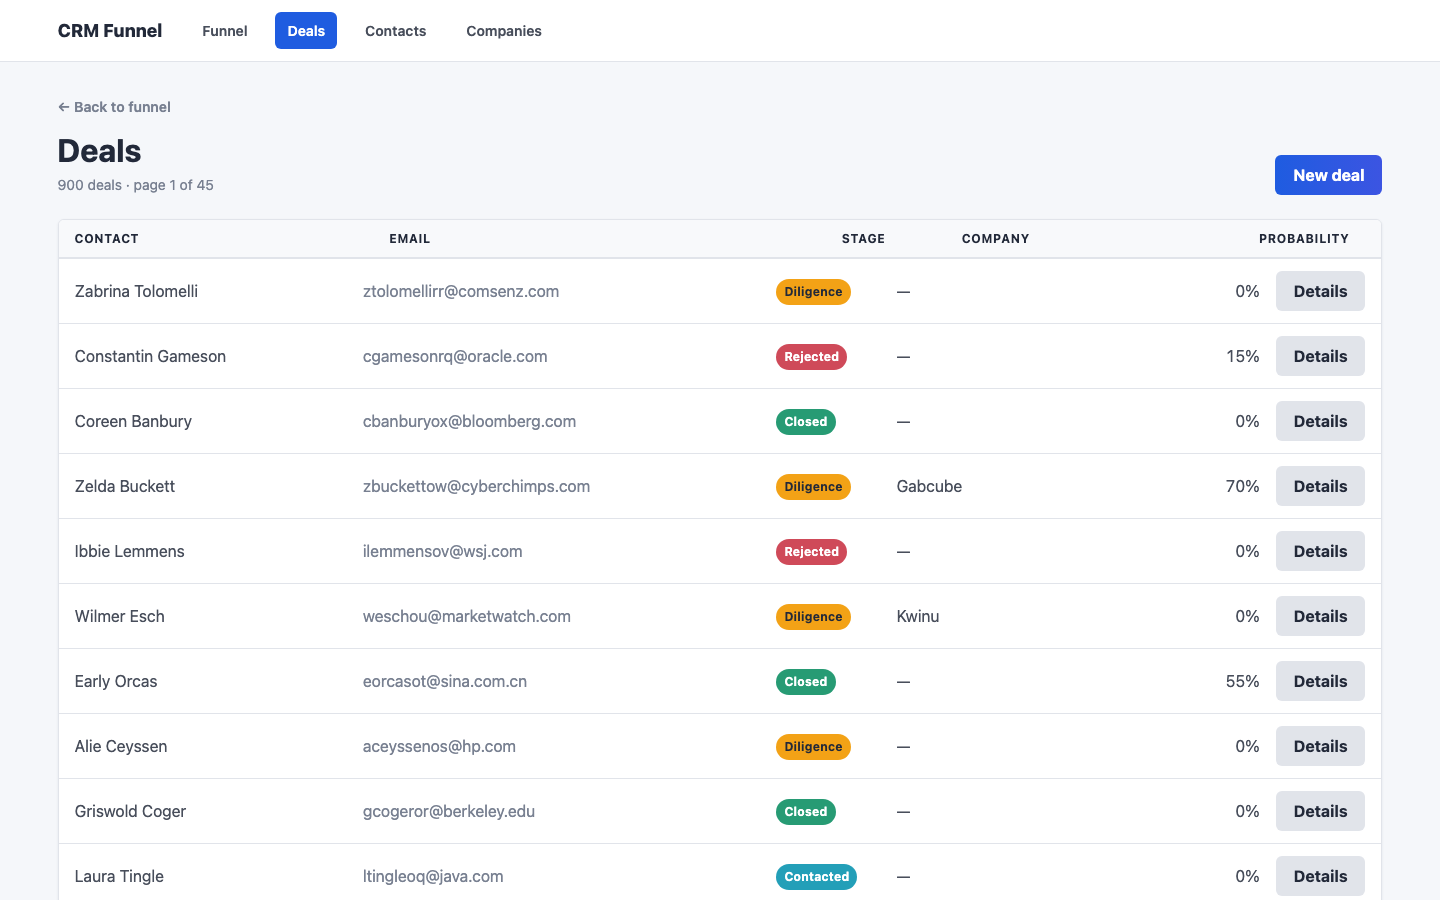
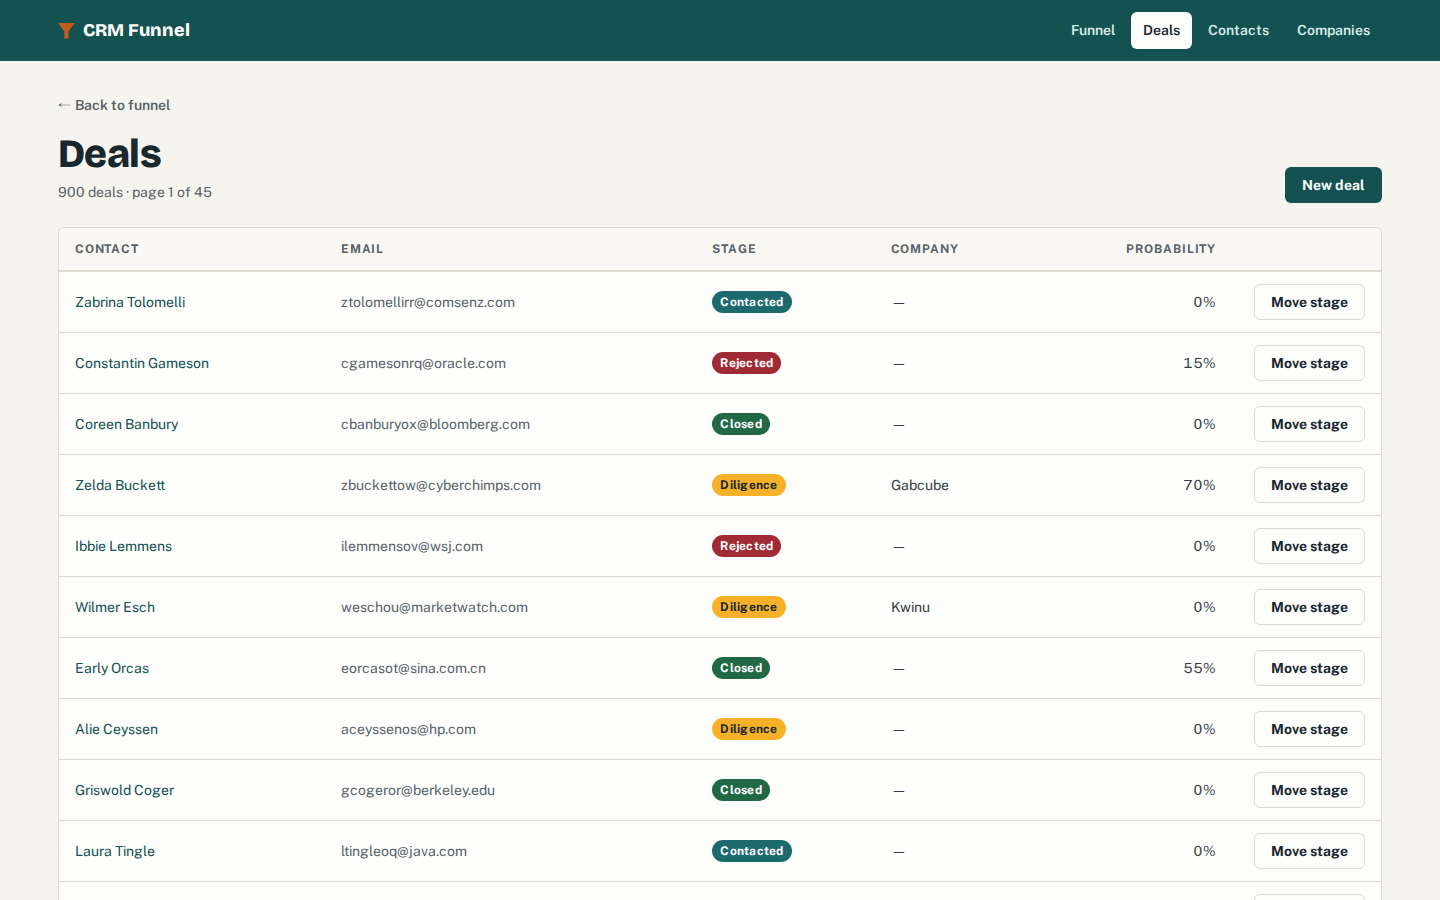
Document the Compose path, mobile layout and re-measured query counts
The README no longer warns that the image was never built: compose up
now builds, seeds and passes its healthcheck. Screenshots are retaken
on the new UI at 1440x900 and 390x844 from a freshly imported database,
the query table is re-measured (adding the 5-query no-op re-import),
the /up response is shown verbatim, and an MIT LICENSE is added.

diff --git a/README.md b/README.md
@@ -4,10 +4,13 @@ A Rails app that turns a flat contact export into a sales pipeline. A deal has n
 stage column: its position is the stage of its newest `deal_histories` row, so the
 funnel is a view over what actually happened rather than a mutable status field.
 
-It ships with the export it was built around — `crm_data.csv`, 1,000 rows, one stage
-per row, 900 distinct e-mail addresses.
+It ships with the export it was built around — `crm_data.csv`, 1,000 rows of
+generated demo contacts, one stage per row, 900 distinct e-mail addresses.
 
-![The pipeline funnel](docs/screenshots/funnel-dashboard.png)
+Built on Ruby 3.4 and Rails 8.1 with PostgreSQL, server-rendered ERB, Turbo and a
+little Stimulus, Kaminari for paging and hand-written SCSS compiled by Dart Sass.
+
+![The pipeline funnel on a freshly imported database](docs/screenshots/funnel-dashboard.png)
 
 Every deal is counted once, in one stage, and the five stage counts sum to the deal
 count. The tiles are derived: open is the three non-terminal stages, *expected to
@@ -54,16 +57,16 @@ means a history row inserted out of order still reports correctly.
 
 ![Stage history for one deal](docs/screenshots/deal-stage-history.png)
 
-That deal was walked Lead → Contacted → Diligence through the form while the
-screenshots were being taken, and a second one was moved Contacted → Diligence,
-which is why the dashboard above shows 154 deals in Diligence where a freshly
-imported database has 152.
+That deal was walked Lead → Contacted → Diligence through the *Move stage* form
+while the screenshots were taken. The dashboard above was captured before that, on
+a freshly imported database, so its 152 deals in Diligence are what the import
+produces.
 
 ## Importing the export
 
 ```
 $ bin/rails db:seed
-Imported /path/to/crm-funnel/crm_data.csv
+Imported /app/crm_data.csv
   read 1000 rows -> 900 new contacts, 162 new companies, 900 new deals,
   900 stage entries (100 duplicate rows merged, 21 probabilities clamped, 0 rows rejected)
 ```
@@ -157,12 +160,13 @@ into Lead, and an empty pipeline returns zeroes rather than dividing by zero.
 
 ## Query budget
 
-Measured here by counting `sql.active_record` notifications on the bundled 1,000-row
-dataset:
+Measured by counting `sql.active_record` notifications (schema and transaction
+statements excluded) against an empty database and the bundled 1,000-row export:
 
 | | queries |
 | --- | --- |
 | Import all 1,000 rows | 8 |
+| Re-run the same import (writes nothing) | 5 |
 | Deals index, loading one page of 20 | 3 |
 | Whole funnel dashboard report | 1 |
 
@@ -184,28 +188,62 @@ dashboard's activity list is capped at 8 rows, so no page grows with the table.
 Each row's badge is the stage the LATERAL join returned — 900 deals over 45 pages,
 still three queries to load them.
 
-## Running it locally
+## The interface
 
-Ruby 3.1.3 and a PostgreSQL server are the only prerequisites.
+Every list is a real `<table>` with scoped column headers, so a screen reader can
+announce *Stage: Diligence* rather than a bare word. Below 48rem the same markup
+turns each row into a labelled card instead of a table that scrolls sideways, and
+the funnel bars move their averages under the bar.
+
+<p>
+  <img src="docs/screenshots/funnel-dashboard-mobile.png" alt="Funnel dashboard at phone width" width="260">
+  <img src="docs/screenshots/deals-index-mobile.png" alt="Deals list at phone width, one card per deal" width="260">
+</p>
+
+Other details: a skip link, `aria-current` on the active navigation item, row
+actions labelled with the contact they act on, notices announced as `role=status`
+and errors as `role=alert`, and flash messages that stay put under
+`prefers-reduced-motion` instead of fading. The stage colours keep white text at
+4.5:1 or better (Diligence uses dark text on amber).
+
+![Contacts index](docs/screenshots/contacts-index.png)
+
+## Running it
+
+The quickest path is Docker Compose, which builds the production image, starts
+PostgreSQL 16, loads the schema and imports `crm_data.csv` on first boot:
+
+```bash
+docker compose up --build
+# app:      http://localhost:8630
+# postgres: localhost:8631 (user crm, password crm)
+```
+
+The ports are deliberately off 3000 and 5432 so they cannot collide with local
+services. The image is multi-stage, runs as a non-root user and healthchecks `/up`.
+Compose falls back to a placeholder `SECRET_KEY_BASE`; set a real one (`bin/rails
+secret`) before deploying it anywhere.
+
+Without Docker you need Ruby 3.4.12 (see `.ruby-version`) and a PostgreSQL server:
 
 ```bash
 bundle install
 cp .env.example .env      # adjust PGUSER / PGPASSWORD for your machine
-bin/rails db:prepare      # create and load schema
-bin/rails db:seed         # import crm_data.csv
+bin/rails db:prepare      # create, load schema and import crm_data.csv
 bin/rails server          # http://localhost:3000
 ```
 
-`GET /up` is a health probe that executes a query, so a process that cannot reach
-Postgres reports `503` instead of accepting traffic it cannot serve.
+`bin/setup` runs the same steps. `GET /up` is a health probe that executes a query,
+so a process that cannot reach Postgres reports `503` instead of accepting traffic
+it cannot serve:
 
-With Docker, `docker compose up --build` puts the app on port 8630 and Postgres on
-8631 (deliberately off 3000 and 5432 so they cannot collide with local services).
-Be aware of what has and has not been checked: `docker compose config` parses, but the
-image has never been built or booted here — the uplift log for this repo records
-`Build verified: NOT RUN — deferred, Docker off` and the same for boot. The Dockerfile
-is multi-stage, runs as a non-root user and healthchecks `/up`, but treat it as
-unproven until you build it.
+```
+$ curl -i http://localhost:8630/up
+HTTP/1.1 200 OK
+content-type: application/json; charset=utf-8
+
+{"status":"ok","database":"ok"}
+```
 
 ## Configuration
 
@@ -228,22 +266,25 @@ loads a local `.env` if there is one.
 ## Working on it
 
 ```bash
-bundle exec rspec           # 109 examples, 0 failures
+RAILS_ENV=test bin/rails db:prepare
+bundle exec rspec           # 113 examples, 0 failures
 bundle exec rubocop         # 73 files inspected, no offenses detected
 bundle exec rspec spec/services spec/queries    # just the import and the funnel arithmetic
 CRM_IMPORT_CSV=other.csv bin/rails db:seed
 ```
 
-Both results are from the last run in this checkout. The specs in `spec/requests/`
-render views for real, which is what catches a template error a controller spec would
-sail past.
+The suite needs a reachable PostgreSQL (it uses `PGDATABASE_TEST`, default
+`crm_funnel_test`). The specs in `spec/requests/` render views for real, which is
+what catches a template error a controller spec would sail past.
 
 Where the work is: `app/services/crm/` (the import, and `deal_opener.rb`),
 `app/queries/crm/funnel_report.rb` (the pipeline aggregation),
 `app/models/deal.rb` (`with_current_stage`, `for_index`) and
 `app/models/deal_history.rb` (the stage enum and its validation). Controllers are
 thin — params in, one service or scope, a template out. `db/seeds.rb` is eight lines
-that call the importer. Styling is hand-written SCSS with no framework.
+that call the importer. Styling is hand-written SCSS with no framework, one partial
+per component under `app/assets/stylesheets/`, with the palette and type scale as
+custom properties in `config/_variables.scss`.
 
 ## What it deliberately does not do
 
@@ -261,3 +302,6 @@ that call the importer. Styling is hand-written SCSS with no framework.
 - **English only, and no soft deletes.** Flash messages and labels are literals, and a
   deleted contact or company is gone even though their deals survive.
 
+## License
+
+MIT — see [LICENSE](LICENSE).
